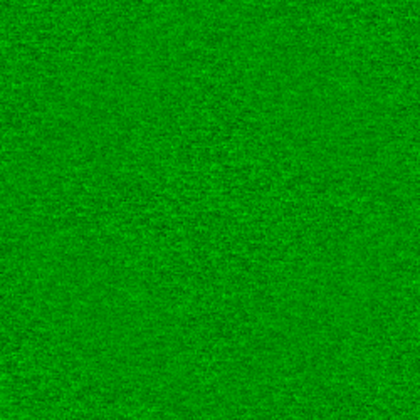
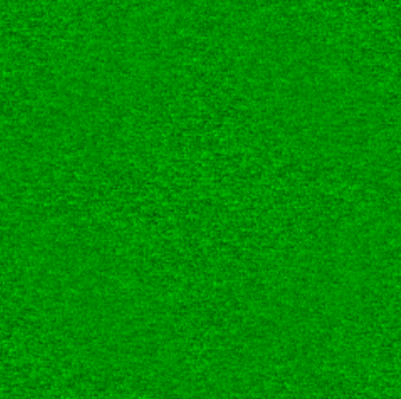
draw res

diff --git a/client/index.html b/client/index.html
@@ -116,9 +116,9 @@
 		self.draw = function(){
 			var bx = - Player.list[selfId].x + WIDTH/2;
 			var by = - Player.list[selfId].y + HEIGHT/2;
-			for (var i = 0; i < WIDTH; i+=50) {
-					for (var j = 0; j < HEIGHT; j+=50) {
-						bgr.drawImage(Img["tile_grass.png"], i+bx-4, j+by-4, 50, 50);
+			for (var i = 0; i < WIDTH; i+=80) {
+					for (var j = 0; j < HEIGHT; j+=80) {
+						bgr.drawImage(Img["tile_grass.png"], i+bx-4, j+by-4, 80, 80);
 					}
 				}
 			}
